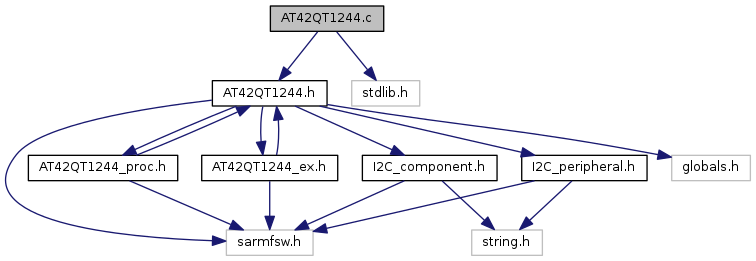
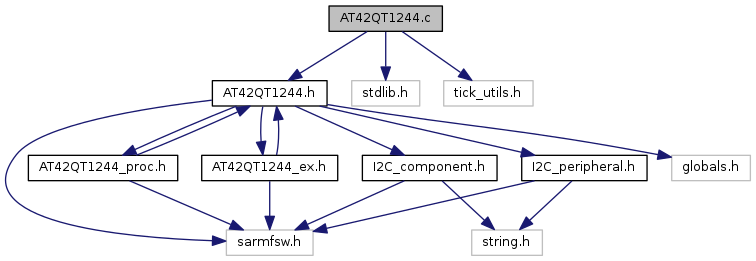
Deploy code docs to GitHub Pages Travis build: 38
Commit: 83871d17812f532332964be1176fb8455b6cec24

diff --git a/html/dd/d4f/_a_t42_q_t1244_8h_source.html b/html/dd/d4f/_a_t42_q_t1244_8h_source.html
@@ -154,7 +154,7 @@ $(function() {
 <div class="ttc" id="_a_t42_q_t1244_8h_html_ab2394159c0e19a10d10081e5cd739991a581c0ae676a418ae4edcad02714b65d8"><div class="ttname"><a href="../../dd/d4f/_a_t42_q_t1244_8h.html#ab2394159c0e19a10d10081e5cd739991a581c0ae676a418ae4edcad02714b65d8">AT42QT__CALIBRATE_KEY_1</a></div><div class="ttdoc">Calibration: Key 1. </div><div class="ttdef"><b>Definition:</b> AT42QT1244.h:136</div></div>
 <div class="ttc" id="_a_t42_q_t1244__proc_8h_html"><div class="ttname"><a href="../../d4/d47/_a_t42_q_t1244__proc_8h.html">AT42QT1244_proc.h</a></div><div class="ttdoc">AT42QT1244 Driver procedures. </div></div>
 <div class="ttc" id="unionu_a_t42_q_t___r_e_g_____s_e_t_u_p__243_html_a8490278d9d90e53a34e2658249f09efe"><div class="ttname"><a href="../../d7/df7/unionu_a_t42_q_t___r_e_g_____s_e_t_u_p__243.html#a8490278d9d90e53a34e2658249f09efe">uAT42QT_REG__SETUP_243::LSL</a></div><div class="ttdeci">uint8_t LSL</div><div class="ttdoc">Lower signal limit (MSB) </div><div class="ttdef"><b>Definition:</b> AT42QT1244.h:245</div></div>
-<div class="ttc" id="_a_t42_q_t1244_8h_html_af1484a8fc6bebb8a9b458b89c0302eb2"><div class="ttname"><a href="../../dd/d4f/_a_t42_q_t1244_8h.html#af1484a8fc6bebb8a9b458b89c0302eb2">AT42QT1244_Init</a></div><div class="ttdeci">FctERR AT42QT1244_Init(const uint8_t idx, const I2C_HandleTypeDef *hi2c, const uint16_t devAddress)</div><div class="ttdoc">Initialization for AT42QT1244 peripheral. </div><div class="ttdef"><b>Definition:</b> AT42QT1244.c:50</div></div>
+<div class="ttc" id="_a_t42_q_t1244_8h_html_af1484a8fc6bebb8a9b458b89c0302eb2"><div class="ttname"><a href="../../dd/d4f/_a_t42_q_t1244_8h.html#af1484a8fc6bebb8a9b458b89c0302eb2">AT42QT1244_Init</a></div><div class="ttdeci">FctERR AT42QT1244_Init(const uint8_t idx, const I2C_HandleTypeDef *hi2c, const uint16_t devAddress)</div><div class="ttdoc">Initialization for AT42QT1244 peripheral. </div><div class="ttdef"><b>Definition:</b> AT42QT1244.c:51</div></div>
 <div class="ttc" id="_a_t42_q_t1244_8h_html_a26116acd8e6c1f98af15aadd7081141aaab91d2fd380816dac04f5d62c02f7d91"><div class="ttname"><a href="../../dd/d4f/_a_t42_q_t1244_8h.html#a26116acd8e6c1f98af15aadd7081141aaab91d2fd380816dac04f5d62c02f7d91">AT42QT__SETUP_KEYS_MODE_7</a></div><div class="ttdef"><b>Definition:</b> AT42QT1244.h:101</div></div>
 <div class="ttc" id="_a_t42_q_t1244_8h_html_ab2394159c0e19a10d10081e5cd739991a4cd318ea842382f4413e6373e6ef680c"><div class="ttname"><a href="../../dd/d4f/_a_t42_q_t1244_8h.html#ab2394159c0e19a10d10081e5cd739991a4cd318ea842382f4413e6373e6ef680c">AT42QT__LOW_LEVEL_CALIBRATION</a></div><div class="ttdoc">Calibration: Low level and frequency hoping. </div><div class="ttdef"><b>Definition:</b> AT42QT1244.h:160</div></div>
 <div class="ttc" id="_a_t42_q_t1244_8h_html_ab0e5929d2695975bd80246897b8562fa"><div class="ttname"><a href="../../dd/d4f/_a_t42_q_t1244_8h.html#ab0e5929d2695975bd80246897b8562fa">I2C_AT42QT1244_NB</a></div><div class="ttdeci">#define I2C_AT42QT1244_NB</div><div class="ttdoc">Number of AT42QT1244 peripherals. </div><div class="ttdef"><b>Definition:</b> AT42QT1244.h:27</div></div>
@@ -246,7 +246,7 @@ $(function() {
 <div class="ttc" id="_a_t42_q_t1244_8h_html_a5982b63d63484894739fce4a05307ce2"><div class="ttname"><a href="../../dd/d4f/_a_t42_q_t1244_8h.html#a5982b63d63484894739fce4a05307ce2">uAT42QT_REG__SETUP_165_188</a></div><div class="ttdeci">union uAT42QT_REG__SETUP_165_188 uAT42QT_REG__SETUP_165_188</div></div>
 <div class="ttc" id="_a_t42_q_t1244_8h_html_a26116acd8e6c1f98af15aadd7081141aae3ce285bdf6adb301186a1eb785e7148"><div class="ttname"><a href="../../dd/d4f/_a_t42_q_t1244_8h.html#a26116acd8e6c1f98af15aadd7081141aae3ce285bdf6adb301186a1eb785e7148">AT42QT__SETUP_KEYS_THRESHOLD_16</a></div><div class="ttdef"><b>Definition:</b> AT42QT1244.h:96</div></div>
 <div class="ttc" id="_a_t42_q_t1244_8h_html_ab2394159c0e19a10d10081e5cd739991a351dec0177983410f43e70d3d02e66ee"><div class="ttname"><a href="../../dd/d4f/_a_t42_q_t1244_8h.html#ab2394159c0e19a10d10081e5cd739991a351dec0177983410f43e70d3d02e66ee">AT42QT__CALIBRATE_KEY_10</a></div><div class="ttdoc">Calibration: Key 10. </div><div class="ttdef"><b>Definition:</b> AT42QT1244.h:145</div></div>
-<div class="ttc" id="_a_t42_q_t1244_8h_html_a8060fa17608cb27da6c09ddbc7086107"><div class="ttname"><a href="../../dd/d4f/_a_t42_q_t1244_8h.html#a8060fa17608cb27da6c09ddbc7086107">AT42QT1244_Init_Single</a></div><div class="ttdeci">FctERR AT42QT1244_Init_Single(void)</div><div class="ttdoc">Initialization for AT42QT1244 peripheral. </div><div class="ttdef"><b>Definition:</b> AT42QT1244.c:66</div></div>
+<div class="ttc" id="_a_t42_q_t1244_8h_html_a8060fa17608cb27da6c09ddbc7086107"><div class="ttname"><a href="../../dd/d4f/_a_t42_q_t1244_8h.html#a8060fa17608cb27da6c09ddbc7086107">AT42QT1244_Init_Single</a></div><div class="ttdeci">FctERR AT42QT1244_Init_Single(void)</div><div class="ttdoc">Initialization for AT42QT1244 peripheral. </div><div class="ttdef"><b>Definition:</b> AT42QT1244.c:67</div></div>
 <div class="ttc" id="_a_t42_q_t1244_8h_html_a26116acd8e6c1f98af15aadd7081141aa6e61b1ae4f3f77395ec5ff188965f371"><div class="ttname"><a href="../../dd/d4f/_a_t42_q_t1244_8h.html#a26116acd8e6c1f98af15aadd7081141aa6e61b1ae4f3f77395ec5ff188965f371">AT42QT__SETUP_KEYS_MODE_16</a></div><div class="ttdef"><b>Definition:</b> AT42QT1244.h:103</div></div>
 <div class="ttc" id="unionu_a_t42_q_t___r_e_g_____s_e_t_u_p__165__188_html"><div class="ttname"><a href="../../d3/d05/unionu_a_t42_q_t___r_e_g_____s_e_t_u_p__165__188.html">uAT42QT_REG__SETUP_165_188</a></div><div class="ttdef"><b>Definition:</b> AT42QT1244.h:207</div></div>
 <div class="ttc" id="_a_t42_q_t1244_8h_html_ab2394159c0e19a10d10081e5cd739991a58a51e78d995120aaaea1635f76ffbc5"><div class="ttname"><a href="../../dd/d4f/_a_t42_q_t1244_8h.html#ab2394159c0e19a10d10081e5cd739991a58a51e78d995120aaaea1635f76ffbc5">AT42QT__CALIBRATE_ALL_KEYS</a></div><div class="ttdoc">Calibration: all keys. </div><div class="ttdef"><b>Definition:</b> AT42QT1244.h:162</div></div>
@@ -302,15 +302,15 @@ $(function() {
 <div class="ttc" id="_a_t42_q_t1244_8h_html_a26116acd8e6c1f98af15aadd7081141aadfa06f40fd40e12be8c2c9e8dc4b8901"><div class="ttname"><a href="../../dd/d4f/_a_t42_q_t1244_8h.html#a26116acd8e6c1f98af15aadd7081141aadfa06f40fd40e12be8c2c9e8dc4b8901">AT42QT__DATA_KEY_5</a></div><div class="ttdef"><b>Definition:</b> AT42QT1244.h:71</div></div>
 <div class="ttc" id="_a_t42_q_t1244_8h_html_a47601a5478d424c2a37f46ad42a0f7f2"><div class="ttname"><a href="../../dd/d4f/_a_t42_q_t1244_8h.html#a47601a5478d424c2a37f46ad42a0f7f2">uAT42QT_REG__SETUP_248</a></div><div class="ttdeci">union uAT42QT_REG__SETUP_248 uAT42QT_REG__SETUP_248</div></div>
 <div class="ttc" id="_a_t42_q_t1244_8h_html_a26116acd8e6c1f98af15aadd7081141aae78c2e049d1b4255bf9d6be9253541ec"><div class="ttname"><a href="../../dd/d4f/_a_t42_q_t1244_8h.html#a26116acd8e6c1f98af15aadd7081141aae78c2e049d1b4255bf9d6be9253541ec">AT42QT__SETUP_KEYS_THRESHOLD_21</a></div><div class="ttdef"><b>Definition:</b> AT42QT1244.h:98</div></div>
-<div class="ttc" id="_a_t42_q_t1244_8h_html_aefc0247934f27b0e2fc64979aee373b7"><div class="ttname"><a href="../../dd/d4f/_a_t42_q_t1244_8h.html#aefc0247934f27b0e2fc64979aee373b7">AT42QT1244_Write</a></div><div class="ttdeci">FctERR AT42QT1244_Write(I2C_slave_t *pSlave, const uint8_t *data, const uint16_t addr, const uint16_t nb)</div><div class="ttdoc">I2C Write function for AT42QT1244. </div><div class="ttdef"><b>Definition:</b> AT42QT1244.c:73</div></div>
+<div class="ttc" id="_a_t42_q_t1244_8h_html_aefc0247934f27b0e2fc64979aee373b7"><div class="ttname"><a href="../../dd/d4f/_a_t42_q_t1244_8h.html#aefc0247934f27b0e2fc64979aee373b7">AT42QT1244_Write</a></div><div class="ttdeci">FctERR AT42QT1244_Write(I2C_slave_t *pSlave, const uint8_t *data, const uint16_t addr, const uint16_t nb)</div><div class="ttdoc">I2C Write function for AT42QT1244. </div><div class="ttdef"><b>Definition:</b> AT42QT1244.c:74</div></div>
 <div class="ttc" id="_a_t42_q_t1244_8h_html_a26116acd8e6c1f98af15aadd7081141aa330666e9f091a273e8262df01f5941a8"><div class="ttname"><a href="../../dd/d4f/_a_t42_q_t1244_8h.html#a26116acd8e6c1f98af15aadd7081141aa330666e9f091a273e8262df01f5941a8">AT42QT__SETUP_CFO_2_18</a></div><div class="ttdef"><b>Definition:</b> AT42QT1244.h:115</div></div>
 <div class="ttc" id="_a_t42_q_t1244_8h_html_a26116acd8e6c1f98af15aadd7081141aaa4d3c32dfcee34ca7312917b329a65e7"><div class="ttname"><a href="../../dd/d4f/_a_t42_q_t1244_8h.html#a26116acd8e6c1f98af15aadd7081141aaa4d3c32dfcee34ca7312917b329a65e7">AT42QT__SETUP_CFO_2_1</a></div><div class="ttdef"><b>Definition:</b> AT42QT1244.h:112</div></div>
 <div class="ttc" id="_a_t42_q_t1244_8h_html_a26116acd8e6c1f98af15aadd7081141aa3a1cae64c70d18921b55cc3702c11887"><div class="ttname"><a href="../../dd/d4f/_a_t42_q_t1244_8h.html#a26116acd8e6c1f98af15aadd7081141aa3a1cae64c70d18921b55cc3702c11887">AT42QT__SETUP_CFO_2_14</a></div><div class="ttdef"><b>Definition:</b> AT42QT1244.h:114</div></div>
 <div class="ttc" id="unionu_a_t42_q_t___r_e_g_____s_e_t_u_p__241_html_a53844db29d15465ef555f2057a76a1ce"><div class="ttname"><a href="../../d7/d60/unionu_a_t42_q_t___r_e_g_____s_e_t_u_p__241.html#a53844db29d15465ef555f2057a76a1ce">uAT42QT_REG__SETUP_241::PDRIFT</a></div><div class="ttdeci">uint8_t PDRIFT</div><div class="ttdoc">Positive drift compensation. </div><div class="ttdef"><b>Definition:</b> AT42QT1244.h:230</div></div>
 <div class="ttc" id="_a_t42_q_t1244_8h_html_ab2394159c0e19a10d10081e5cd739991a7bd7299388e5ea8a2d050b35edc62db7"><div class="ttname"><a href="../../dd/d4f/_a_t42_q_t1244_8h.html#ab2394159c0e19a10d10081e5cd739991a7bd7299388e5ea8a2d050b35edc62db7">AT42QT__CALIBRATE_KEY_22</a></div><div class="ttdoc">Calibration: Key 22. </div><div class="ttdef"><b>Definition:</b> AT42QT1244.h:157</div></div>
 <div class="ttc" id="_a_t42_q_t1244_8h_html_a26116acd8e6c1f98af15aadd7081141aaefecf4a07d495551eea2e6a3af679366"><div class="ttname"><a href="../../dd/d4f/_a_t42_q_t1244_8h.html#a26116acd8e6c1f98af15aadd7081141aaefecf4a07d495551eea2e6a3af679366">AT42QT__DATA_KEY_23</a></div><div class="ttdef"><b>Definition:</b> AT42QT1244.h:89</div></div>
-<div class="ttc" id="_a_t42_q_t1244_8h_html_ab867525e9212e042aec44bc34932ae44"><div class="ttname"><a href="../../dd/d4f/_a_t42_q_t1244_8h.html#ab867525e9212e042aec44bc34932ae44">AT42QT1244_Read</a></div><div class="ttdeci">FctERR AT42QT1244_Read(I2C_slave_t *pSlave, uint8_t *data, const uint16_t addr, const uint16_t nb)</div><div class="ttdoc">I2C Read function for AT42QT1244. </div><div class="ttdef"><b>Definition:</b> AT42QT1244.c:88</div></div>
-<div class="ttc" id="_a_t42_q_t1244_8h_html_aba6b9727228c10bcd0e6168dc2d332ae"><div class="ttname"><a href="../../dd/d4f/_a_t42_q_t1244_8h.html#aba6b9727228c10bcd0e6168dc2d332ae">AT42QT1244_hal</a></div><div class="ttdeci">I2C_slave_t AT42QT1244_hal[I2C_AT42QT1244_NB]</div><div class="ttdoc">AT42QT1244 Slave structure. </div><div class="ttdef"><b>Definition:</b> AT42QT1244.c:20</div></div>
+<div class="ttc" id="_a_t42_q_t1244_8h_html_ab867525e9212e042aec44bc34932ae44"><div class="ttname"><a href="../../dd/d4f/_a_t42_q_t1244_8h.html#ab867525e9212e042aec44bc34932ae44">AT42QT1244_Read</a></div><div class="ttdeci">FctERR AT42QT1244_Read(I2C_slave_t *pSlave, uint8_t *data, const uint16_t addr, const uint16_t nb)</div><div class="ttdoc">I2C Read function for AT42QT1244. </div><div class="ttdef"><b>Definition:</b> AT42QT1244.c:89</div></div>
+<div class="ttc" id="_a_t42_q_t1244_8h_html_aba6b9727228c10bcd0e6168dc2d332ae"><div class="ttname"><a href="../../dd/d4f/_a_t42_q_t1244_8h.html#aba6b9727228c10bcd0e6168dc2d332ae">AT42QT1244_hal</a></div><div class="ttdeci">I2C_slave_t AT42QT1244_hal[I2C_AT42QT1244_NB]</div><div class="ttdoc">AT42QT1244 Slave structure. </div><div class="ttdef"><b>Definition:</b> AT42QT1244.c:21</div></div>
 <div class="ttc" id="_a_t42_q_t1244_8h_html_a26116acd8e6c1f98af15aadd7081141aa0d869fb621a86fb775ad5e652cdeef65"><div class="ttname"><a href="../../dd/d4f/_a_t42_q_t1244_8h.html#a26116acd8e6c1f98af15aadd7081141aa0d869fb621a86fb775ad5e652cdeef65">AT42QT__DATA_KEY_6</a></div><div class="ttdef"><b>Definition:</b> AT42QT1244.h:72</div></div>
 <div class="ttc" id="unionu_a_t42_q_t___r_e_g_____s_e_t_u_p__141__164_html"><div class="ttname"><a href="../../d8/dbc/unionu_a_t42_q_t___r_e_g_____s_e_t_u_p__141__164.html">uAT42QT_REG__SETUP_141_164</a></div><div class="ttdef"><b>Definition:</b> AT42QT1244.h:198</div></div>
 <div class="ttc" id="_a_t42_q_t1244_8h_html_a26116acd8e6c1f98af15aadd7081141aa0ef83f9f53229c4ea27c637161c897d1"><div class="ttname"><a href="../../dd/d4f/_a_t42_q_t1244_8h.html#a26116acd8e6c1f98af15aadd7081141aa0ef83f9f53229c4ea27c637161c897d1">AT42QT__SETUP_FREQ1</a></div><div class="ttdef"><b>Definition:</b> AT42QT1244.h:126</div></div>

diff --git a/html/df/de4/_a_t42_q_t1244__ex_8h_source.html b/html/df/de4/_a_t42_q_t1244__ex_8h_source.html
@@ -79,7 +79,7 @@ $(function() {
 <div class="ttc" id="unionu_a_t42_q_t___r_e_g___m_a_p_html_aca113d155c9189dbee2942893cbe94ec"><div class="ttname"><a href="../../d1/db6/unionu_a_t42_q_t___r_e_g___m_a_p.html#aca113d155c9189dbee2942893cbe94ec">uAT42QT_REG_MAP::Counter_100ms</a></div><div class="ttdeci">uint8_t Counter_100ms</div><div class="ttdef"><b>Definition:</b> AT42QT1244_ex.h:31</div></div>
 <div class="ttc" id="unionu_a_t42_q_t___r_e_g___m_a_p_html_a335fe1b10a11f0b92c826aed2a1aec78"><div class="ttname"><a href="../../d1/db6/unionu_a_t42_q_t___r_e_g___m_a_p.html#a335fe1b10a11f0b92c826aed2a1aec78">uAT42QT_REG_MAP::Device_Status</a></div><div class="ttdeci">uAT42QT_REG__DEVICE_STATUS Device_Status</div><div class="ttdef"><b>Definition:</b> AT42QT1244_ex.h:34</div></div>
 <div class="ttc" id="unionu_a_t42_q_t___r_e_g_____s_e_t_u_p__248_html"><div class="ttname"><a href="../../d8/dd1/unionu_a_t42_q_t___r_e_g_____s_e_t_u_p__248.html">uAT42QT_REG__SETUP_248</a></div><div class="ttdef"><b>Definition:</b> AT42QT1244.h:260</div></div>
-<div class="ttc" id="_a_t42_q_t1244_8c_html_ab867525e9212e042aec44bc34932ae44"><div class="ttname"><a href="../../d3/dc4/_a_t42_q_t1244_8c.html#ab867525e9212e042aec44bc34932ae44">AT42QT1244_Read</a></div><div class="ttdeci">FctERR AT42QT1244_Read(I2C_slave_t *pSlave, uint8_t *data, const uint16_t addr, const uint16_t nb)</div><div class="ttdoc">I2C Read function for AT42QT1244. </div><div class="ttdef"><b>Definition:</b> AT42QT1244.c:88</div></div>
+<div class="ttc" id="_a_t42_q_t1244_8c_html_ab867525e9212e042aec44bc34932ae44"><div class="ttname"><a href="../../d3/dc4/_a_t42_q_t1244_8c.html#ab867525e9212e042aec44bc34932ae44">AT42QT1244_Read</a></div><div class="ttdeci">FctERR AT42QT1244_Read(I2C_slave_t *pSlave, uint8_t *data, const uint16_t addr, const uint16_t nb)</div><div class="ttdoc">I2C Read function for AT42QT1244. </div><div class="ttdef"><b>Definition:</b> AT42QT1244.c:89</div></div>
 <div class="ttc" id="_a_t42_q_t1244_8h_html"><div class="ttname"><a href="../../dd/d4f/_a_t42_q_t1244_8h.html">AT42QT1244.h</a></div><div class="ttdoc">AT42QT1244 Driver. </div></div>
 <div class="ttc" id="_a_t42_q_t1244__ex_8h_html_ab52313a7d0dde362d988276cfcea007a"><div class="ttname"><a href="../../df/de4/_a_t42_q_t1244__ex_8h.html#ab52313a7d0dde362d988276cfcea007a">AT42QT1244_Send_Setup</a></div><div class="ttdeci">FctERR AT42QT1244_Send_Setup(AT42QT1244_t *pCpnt, const uint8_t *setup, const uint8_t addr, const uint8_t nb)</div><div class="ttdef"><b>Definition:</b> AT42QT1244_ex.c:22</div></div>
 <div class="ttc" id="unionu_a_t42_q_t___r_e_g___m_a_p_html_a7f659f38fab8e52a2b7507baecd65f46"><div class="ttname"><a href="../../d1/db6/unionu_a_t42_q_t___r_e_g___m_a_p.html#a7f659f38fab8e52a2b7507baecd65f46">uAT42QT_REG_MAP::Setup_Awake_Timeout</a></div><div class="ttdeci">uint8_t Setup_Awake_Timeout</div><div class="ttdef"><b>Definition:</b> AT42QT1244_ex.h:50</div></div>

diff --git a/html/d3/dc4/_a_t42_q_t1244_8c.html b/html/d3/dc4/_a_t42_q_t1244_8c.html
@@ -72,6 +72,7 @@ $(function() {
 <a href="#details">More...</a></p>
 <div class="textblock"><code>#include &quot;<a class="el" href="../../dd/d4f/_a_t42_q_t1244_8h_source.html">AT42QT1244.h</a>&quot;</code><br />
 <code>#include &lt;stdlib.h&gt;</code><br />
+<code>#include &quot;tick_utils.h&quot;</code><br />
 </div><div class="textblock"><div class="dynheader">
 Include dependency graph for AT42QT1244.c:</div>
 <div class="dyncontent">
